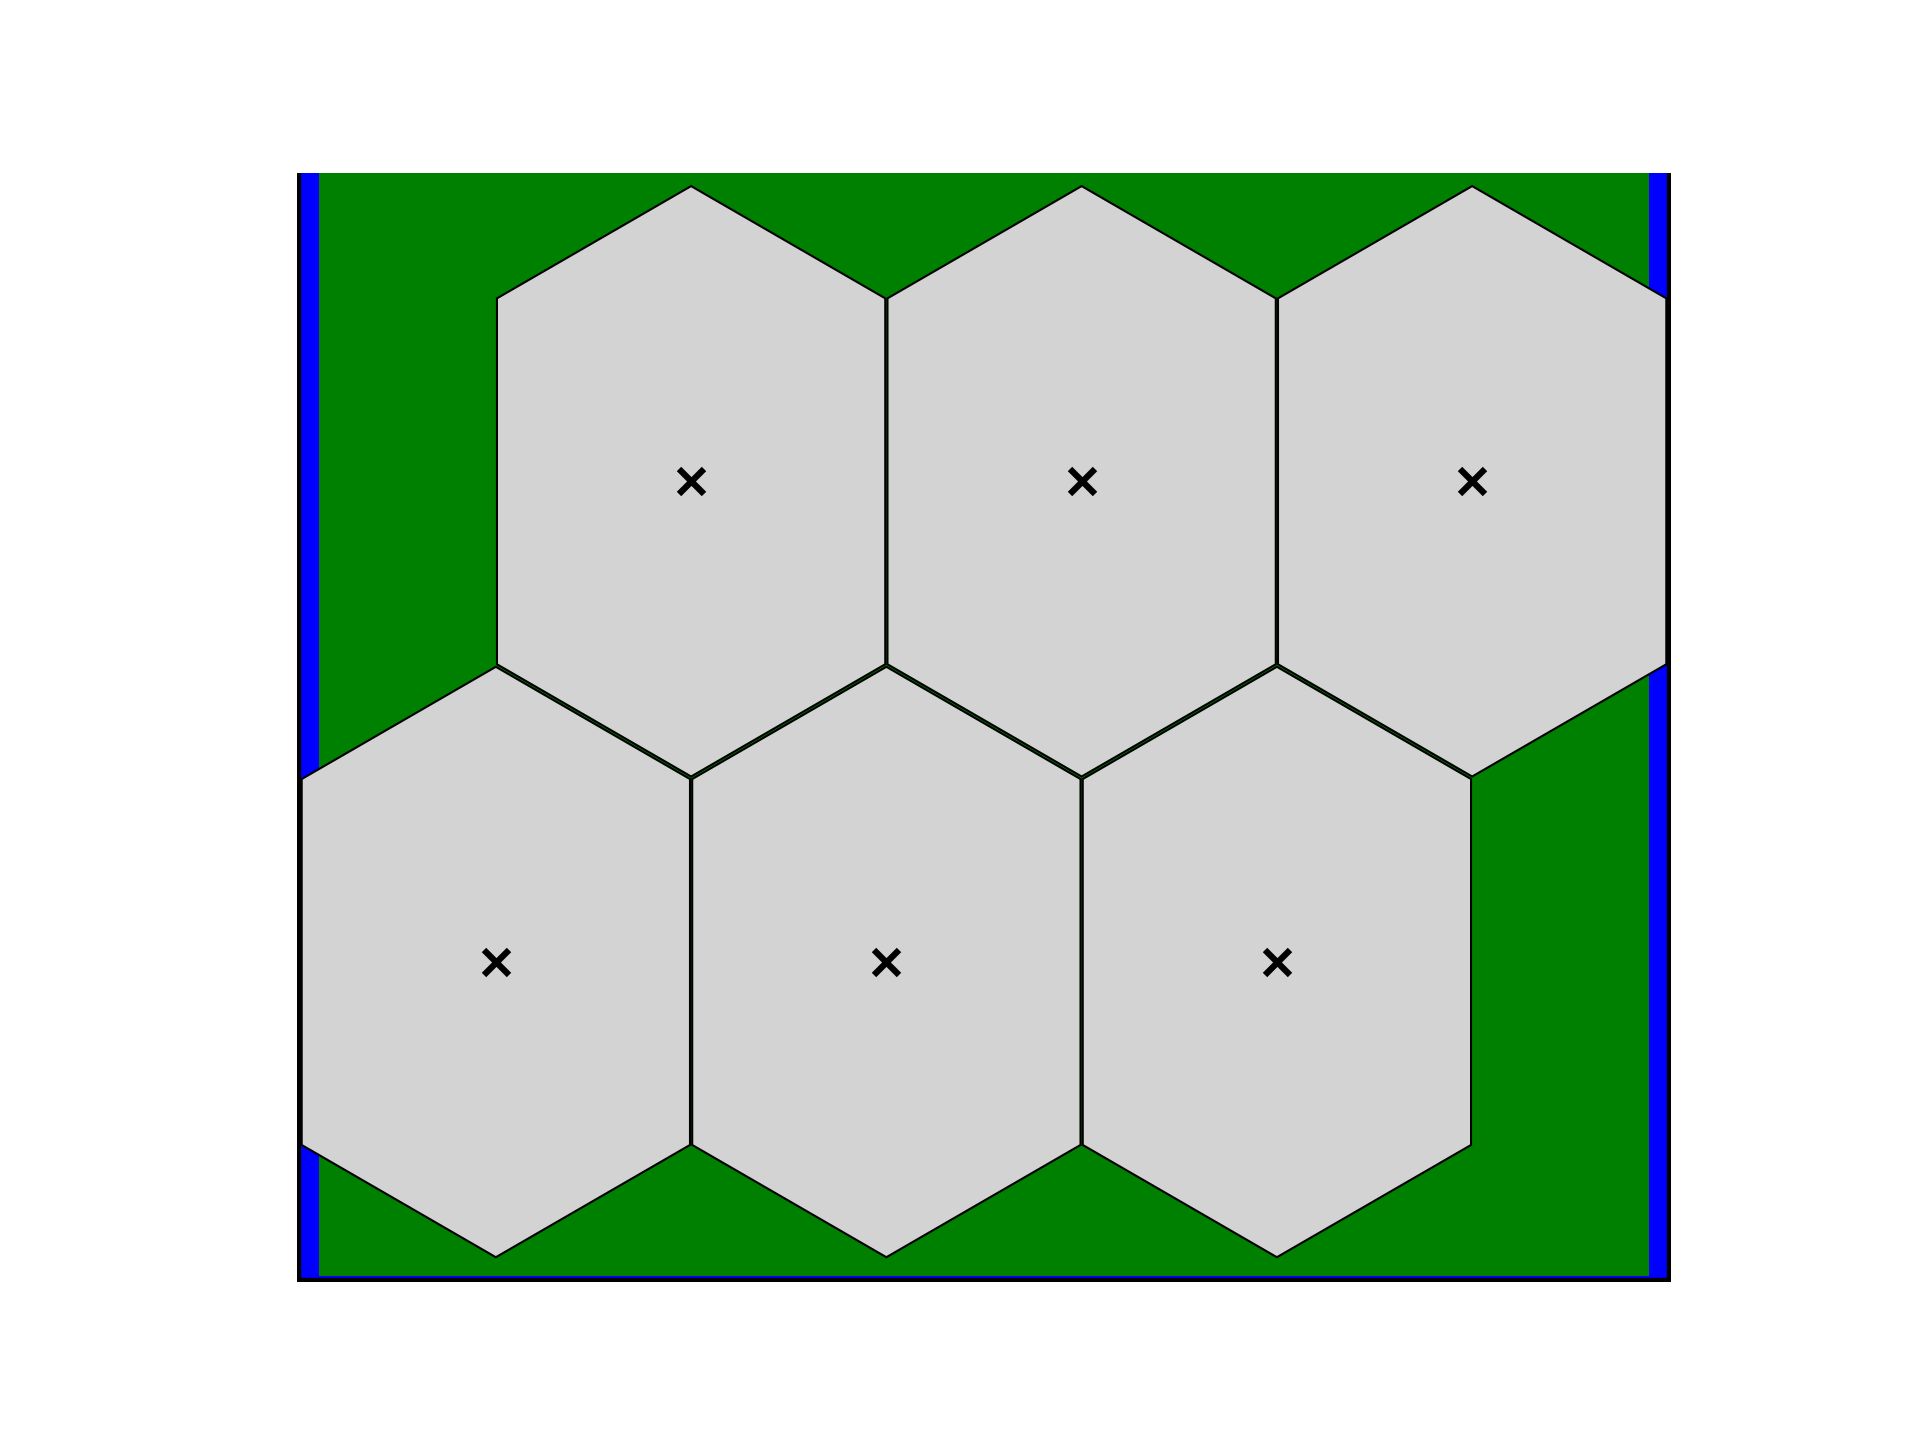
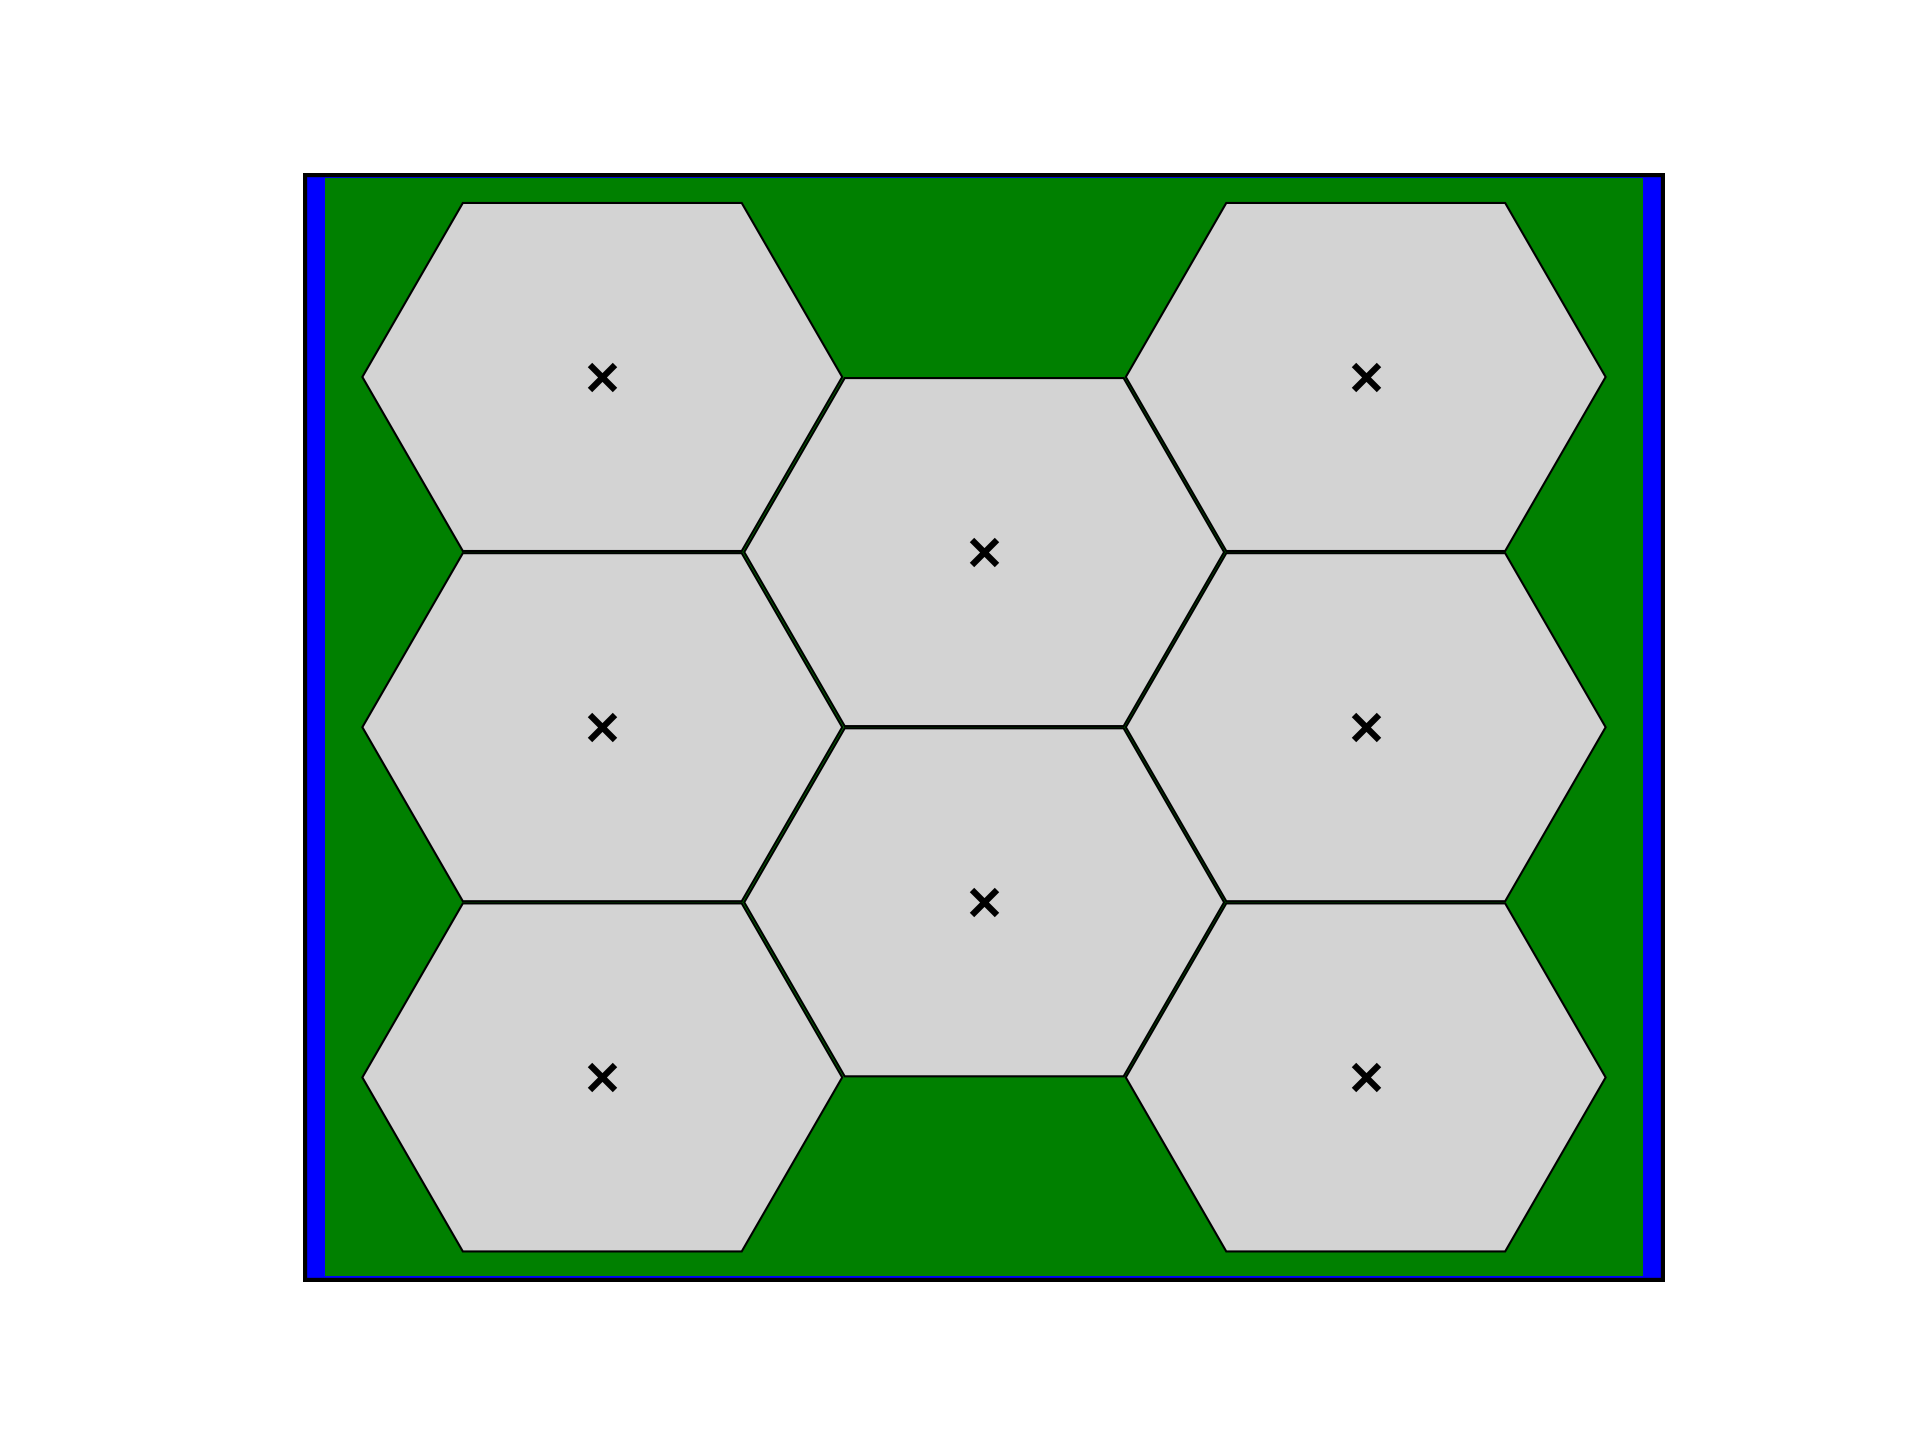
updates

diff --git a/folder_1/Draw.py b/folder_1/Draw.py
@@ -39,7 +39,7 @@ def draw_hexagons(hexagons, isActual):
 
 
     ax.set_xlim(0, 124)
-    ax.set_ylim(0, 100)
+    ax.set_ylim(0, 101)
     
     axis = plt.gca()
     
@@ -48,7 +48,7 @@ def draw_hexagons(hexagons, isActual):
 
     # Generate new tick positions based on the step length for the x-axis
     new_xticks = np.arange(0, 124, step)
-    new_yticks = np.arange(0, 100, step)
+    new_yticks = np.arange(0, 101, step)
     
 
     # Set the new tick positions

diff --git a/folder_3/Main.py b/folder_3/Main.py
@@ -11,7 +11,7 @@ def place_trapezes(B, b, b_med, h_min, h_max, radius):
     origin = [h_max/2, B/2]
     trapezes = []
     
-    rotate180 = False
+    rotate180 = True
     
     while True:
         
@@ -54,7 +54,7 @@ def place_rotated_trapezes(B, b, b_med, h_min, h_max, radius):
     origin = [B/2, h_max/2]
     trapezes = []
 
-    rotate180 = False
+    rotate180 = True
 
     while True:
 
